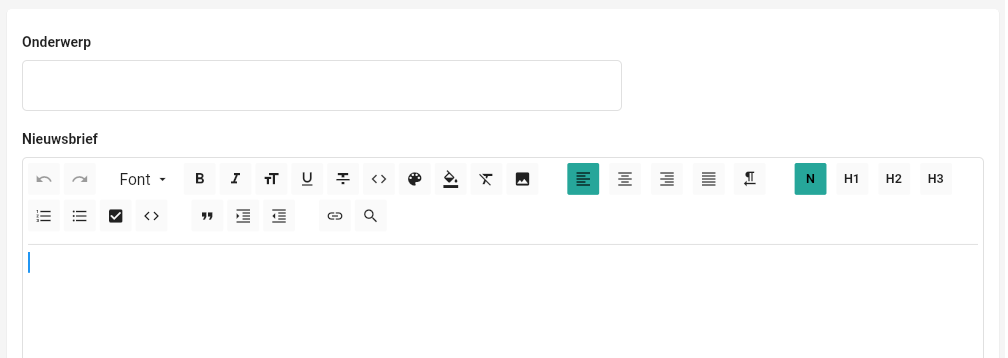
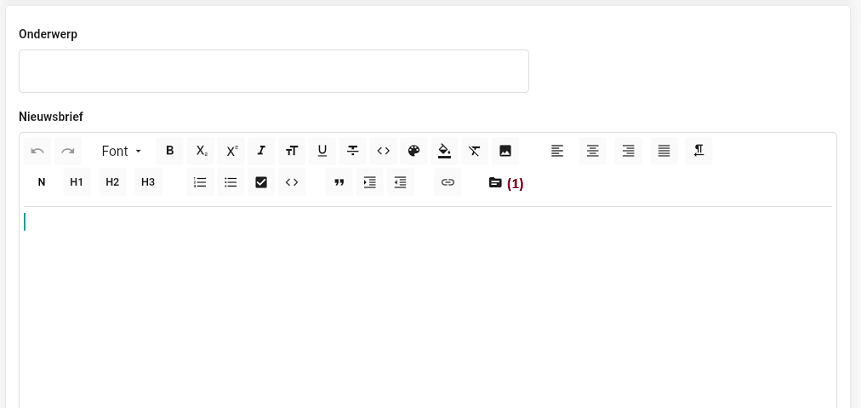
changes
changes

diff --git a/docs/admin/newsletter.md b/docs/admin/newsletter.md
@@ -80,6 +80,11 @@ Doorloop volgende stappen om een nieuwsbrief aan te maken:
 
 ![newsletter create content](/assets/images/newsletter_create_content.png)
 
+Door op (1) te klikken is het mogelijk variabelen in te voegen. Deze zullen dan bij het versturen vervangen worden door echte gegevens. Het is belangrijk om, na het invoegen van de variabele, het formaat
+niet aan te passen. Beschikbare variabelen zijn voornaam en achternaam.
+
+![newsletter create](/assets/images/newsletter_create_variable.png)
+
 - Header (optioneel): kies een header voor jouw nieuwsbrief. Deze zal bovenaan de nieuwsbrief getoond worden
 - Footer (optioneel): kies een footer voor jouw nieuwsbrief. Deze zal onderaan de nieuwsbrief getoond worden.
 
@@ -107,42 +112,15 @@ Druk op "Annuleer" om de verzending te annuleren, de nieuwsbrief wordt opgeslage
 
 ## Inschrijven
 
-Om ingeschreven te zijn voor ontvangst van nieuwsbrieven dient een lid aan twee voorwaarden te voldoen:
-- Het lid moet zichzelf aangemeld hebben voor ontvangst van nieuwsbrieven
-- De beheerder mag de ontvangst van nieuwsbrieven door het lid niet uitgeschakeld hebben
+Een lid kan zich zelf inschrijven of uitschrijven voor ontvangst van nieuwsbrieven. Dit kan op twee manieren:
 
-### Aanmelden voor nieuwsbrieven
-Om zich aan te melden voor ontvangst van nieuwsbrieven van de club dient het lid te bevestigen via een aanmeldingsemail. 
+- Het lid kan zich zelf inschrijven of uitschrijven in de applicatie.
+- Wanneer, bij lid worden van de club, de standaardvraag "Ik wil me inschrijven voor de nieuwsbrief van de club" actief gezet is kan hij 
+hier positief of negatief op reageren. (zie [Lid verzoek vragen](settings.md#lid-verzoek-vragen))
 
-![newsletter registration](/assets/images/newsletter_registration.png)
+## Overzicht leden
 
-De beheerder kan deze mail naar het lid versturen op verschillende manieren:
+Om een overzicht te krijgen van de leden en of ze ingeschreven zijn voor de nieuwsbrief kan je naar het ledenoverzicht gaan en weergave "E-mails" selecteren (zie [Overzicht](member-management.md#overzicht))
 
-- Individueel via de lid detail pagina:
-Navigeer naar de detail pagina van het lid, open de tab "Persoonlijk", voeg een e-mailadres toe (indien dit nog niet gebeurd is) en klik op de knop "Inschrijvingsmail verzenden".
-
-![newsletter send registrationmail](/assets/images/newsletter_sendregistration.png)
-
-- In groep via het ledenoverzicht:
-Navigeer naar de leden pagina, open de "E-mails"-weergave, selecteer minstens één lid met bijhorend e-mailadres en voer de actie "Abonneer op nieuwsbrief" uit. Een nieuwe pagina opent waarop
-je het ledenoverzicht kan herbekijken/aanpassen en op "Inschrijvingsmail verzenden" kan klikken om de actie uit te voeren.
-
-![newsletter send registrationmail bulk](/assets/images/newsletter_sendregistration_mass.png)
-
-Het lid kan zich ten allen tijde weer uitschrijven van de nieuwsbrief door middel van de uitschrijven-link onderaan elke nieuwsbrief.
-
-### In -en uitschakelen van ontvangst door de beheerder
-De beheerder kan op elk moment de ontvangst van nieuwsbrieven voor een lid in -of uitschakelen (ook indien deze zich zelf aangemeld heeft). De beheerder kan dit op twee manieren doen:
-
-- Individueel via de lid detail pagina:
-Navigeer naar de detail pagina van het lid, open de tab "Persoonlijk", open het editeren voor e-mails via het potloodje en vink "ingeschakeld" aan of uit, klik op bewaar om de 
-wijziging door te voeren.
-
-![newsletter enable](/assets/images/newsletter_enable.png)
-
-- In groep via het ledenoverzicht:
-Navigeer naar de leden pagina, open de "E-mails"-weergave, selecteer minstens één lid met bijhorend e-mailadres en voer de actie "Inschakelen/uitschakelen nieuwsbrief" uit. 
-Een nieuwe pagina opent waarop je het ledenoverzicht kan herbekijken/aanpassen. Selecteer "Alles inschakelen" of "Alles uitschakelen". Klik op "Bewaar" om de actie uit te voeren.
-
-![newsletter enable bulk](/assets/images/newsletter_enable_mass.png)
+![member overview](/assets/images/newsletter_member_overview.png)
 
